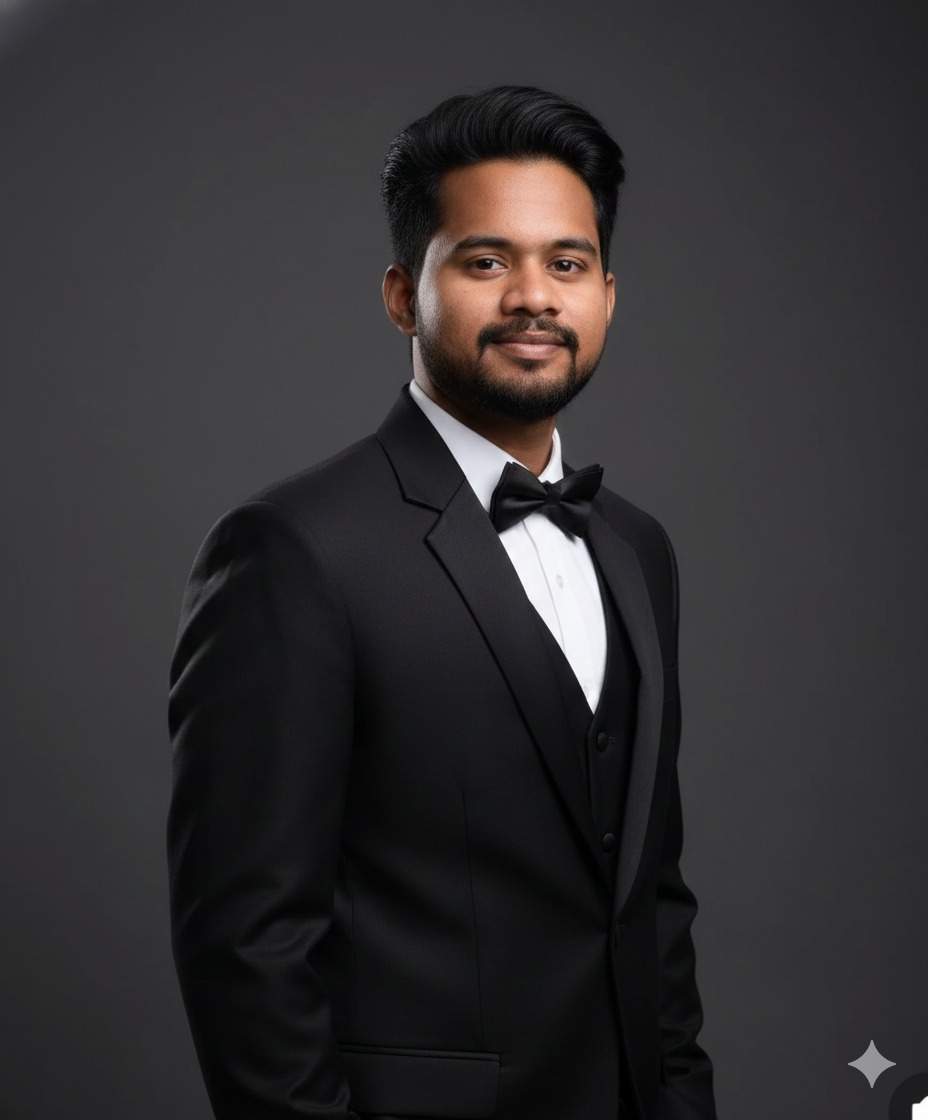
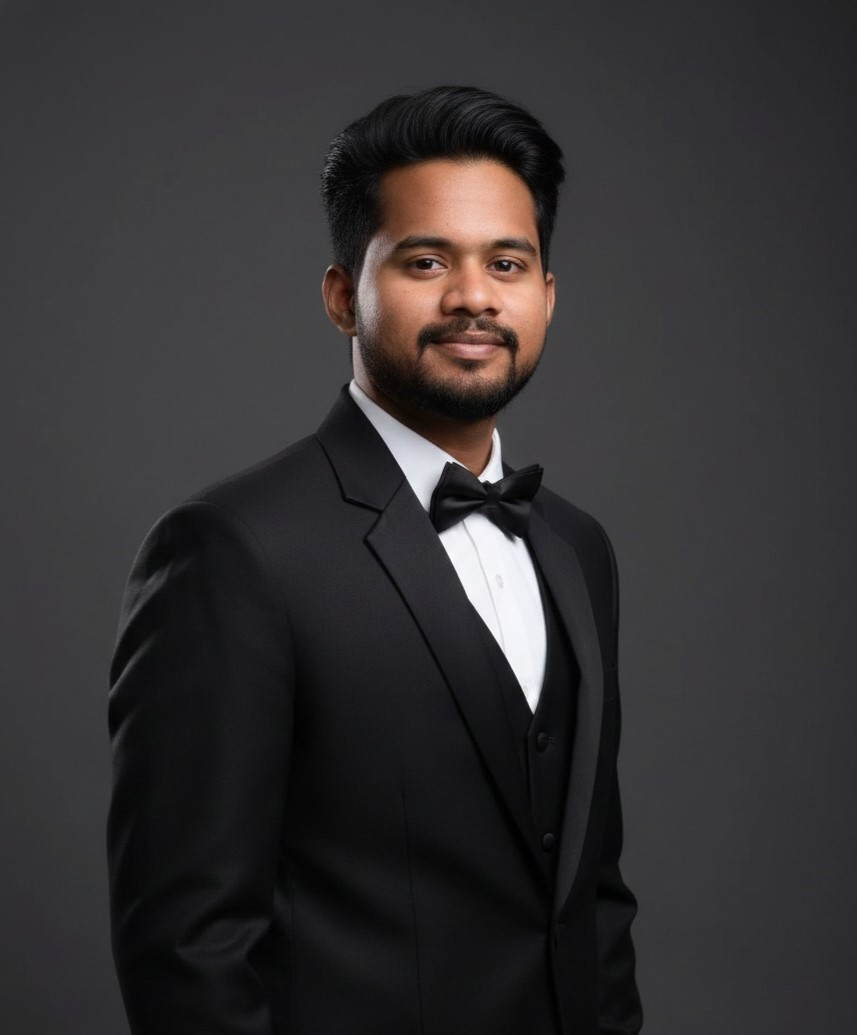
Adding small features

diff --git a/src/app/components/Navbar.tsx b/src/app/components/Navbar.tsx
@@ -4,7 +4,18 @@ import { useState } from "react";
 import Link from "next/link";
 import Image from "next/image";
 import { motion, AnimatePresence } from "framer-motion";
-import { Menu, X } from "lucide-react";
+import { Menu, X, Instagram, Linkedin, Twitter, Facebook } from "lucide-react";
+
+const socialLinks = [
+  { icon: Facebook, href: "#", label: "Facebook" },
+  { icon: Twitter, href: "#", label: "Twitter" },
+  { icon: Linkedin, href: "#", label: "LinkedIn" },
+  {
+    icon: Instagram,
+    href: "https://www.instagram.com/thesociea",
+    label: "Instagram",
+  },
+];
 
 export default function Navbar() {
   const [isMenuOpen, setIsMenuOpen] = useState(false);
@@ -53,6 +64,24 @@ export default function Navbar() {
               </li>
             ))}
           </ul>
+
+          {/* Social Icons */}
+          <div className="flex items-center gap-4">
+            {socialLinks.map((social) => {
+              const Icon = social.icon;
+              return (
+                <a
+                  key={social.label}
+                  href={social.href}
+                  aria-label={social.label}
+                  className="hover:opacity-80 transition-opacity"
+                  target="_blank"
+                >
+                  <Icon className="w-4 h-4" />
+                </a>
+              );
+            })}
+          </div>
 
           {/* Mobile Menu Button */}
           <button

diff --git a/src/app/components/Services.tsx b/src/app/components/Services.tsx
@@ -1,6 +1,7 @@
 "use client";
 
 import { motion } from "framer-motion";
+import Link from "next/link";
 
 const serviceVariants = {
   hidden: { opacity: 0, y: 40 },
@@ -131,6 +132,16 @@ export default function Services() {
             <AnimatedDots />
           </motion.div>
         </div>
+        <Link href="packages">
+          <motion.button
+            initial={{ opacity: 0, y: 20 }}
+            whileInView={{ opacity: 1, y: 0 }}
+            transition={{ delay: 0.4, duration: 0.6 }}
+            className="mt-8 sm:mt-10 px-6 sm:px-8 py-3 sm:py-4 rounded-full bg-[#1368D6] text-white font-medium hover:bg-[#0F5AB8] transition cursor-pointer text-sm sm:text-base"
+          >
+            Our Packages
+          </motion.button>
+        </Link>
       </div>
     </section>
   );

diff --git a/src/app/packages/page.tsx b/src/app/packages/page.tsx
@@ -1,6 +1,7 @@
 "use client";
 
 import { motion } from "framer-motion";
+import Link from "next/link";
 
 const plans = [
   {
@@ -91,9 +92,11 @@ export default function PackagesPage() {
               ))}
             </ul>
 
-            <button className="mt-6 sm:mt-8 w-full py-3 rounded-full bg-[#1368D6] hover:bg-[#0F5AB8] transition font-medium text-white">
-              Choose Plan
-            </button>
+            <Link href="contact">
+              <button className="mt-6 sm:mt-8 cursor-pointer w-full py-3 rounded-full bg-[#1368D6] hover:bg-[#0F5AB8] transition font-medium text-white">
+                Choose Plan
+              </button>
+            </Link>
           </motion.div>
         ))}
       </div>

diff --git a/src/app/components/TeamSection.tsx b/src/app/components/TeamSection.tsx
@@ -1,7 +1,6 @@
 "use client";
-
-import Image from "next/image";
 import { motion } from "framer-motion";
+import Image from "next/image";
 
 const teamMembers = [
   {
@@ -17,7 +16,7 @@ const teamMembers = [
   {
     name: "Subhashree",
     role: "Content Creator",
-    image: "subhashree.jpeg",
+    image: "/subhashree.jpeg",
   },
   {
     name: "Chinmay",
@@ -71,7 +70,7 @@ export default function TeamSection() {
                 src={member.image}
                 alt={member.name}
                 fill
-                className="object-cover rounded-lg"
+                className="object-contain "
               />
             </div>
 

diff --git a/src/app/layout.tsx b/src/app/layout.tsx
@@ -4,6 +4,7 @@ import "./globals.css";
 import Navbar from "./components/Navbar";
 import Footer from "./components/Footer";
 import { SpeedInsights } from "@vercel/speed-insights/next";
+import { Analytics } from "@vercel/analytics/next";
 const geistSans = Geist({
   variable: "--font-geist-sans",
   subsets: ["latin"],
@@ -33,6 +34,7 @@ export default function RootLayout({
         <Navbar />
         {children}
         <Footer />
+        <Analytics />
         <SpeedInsights />
       </body>
     </html>
